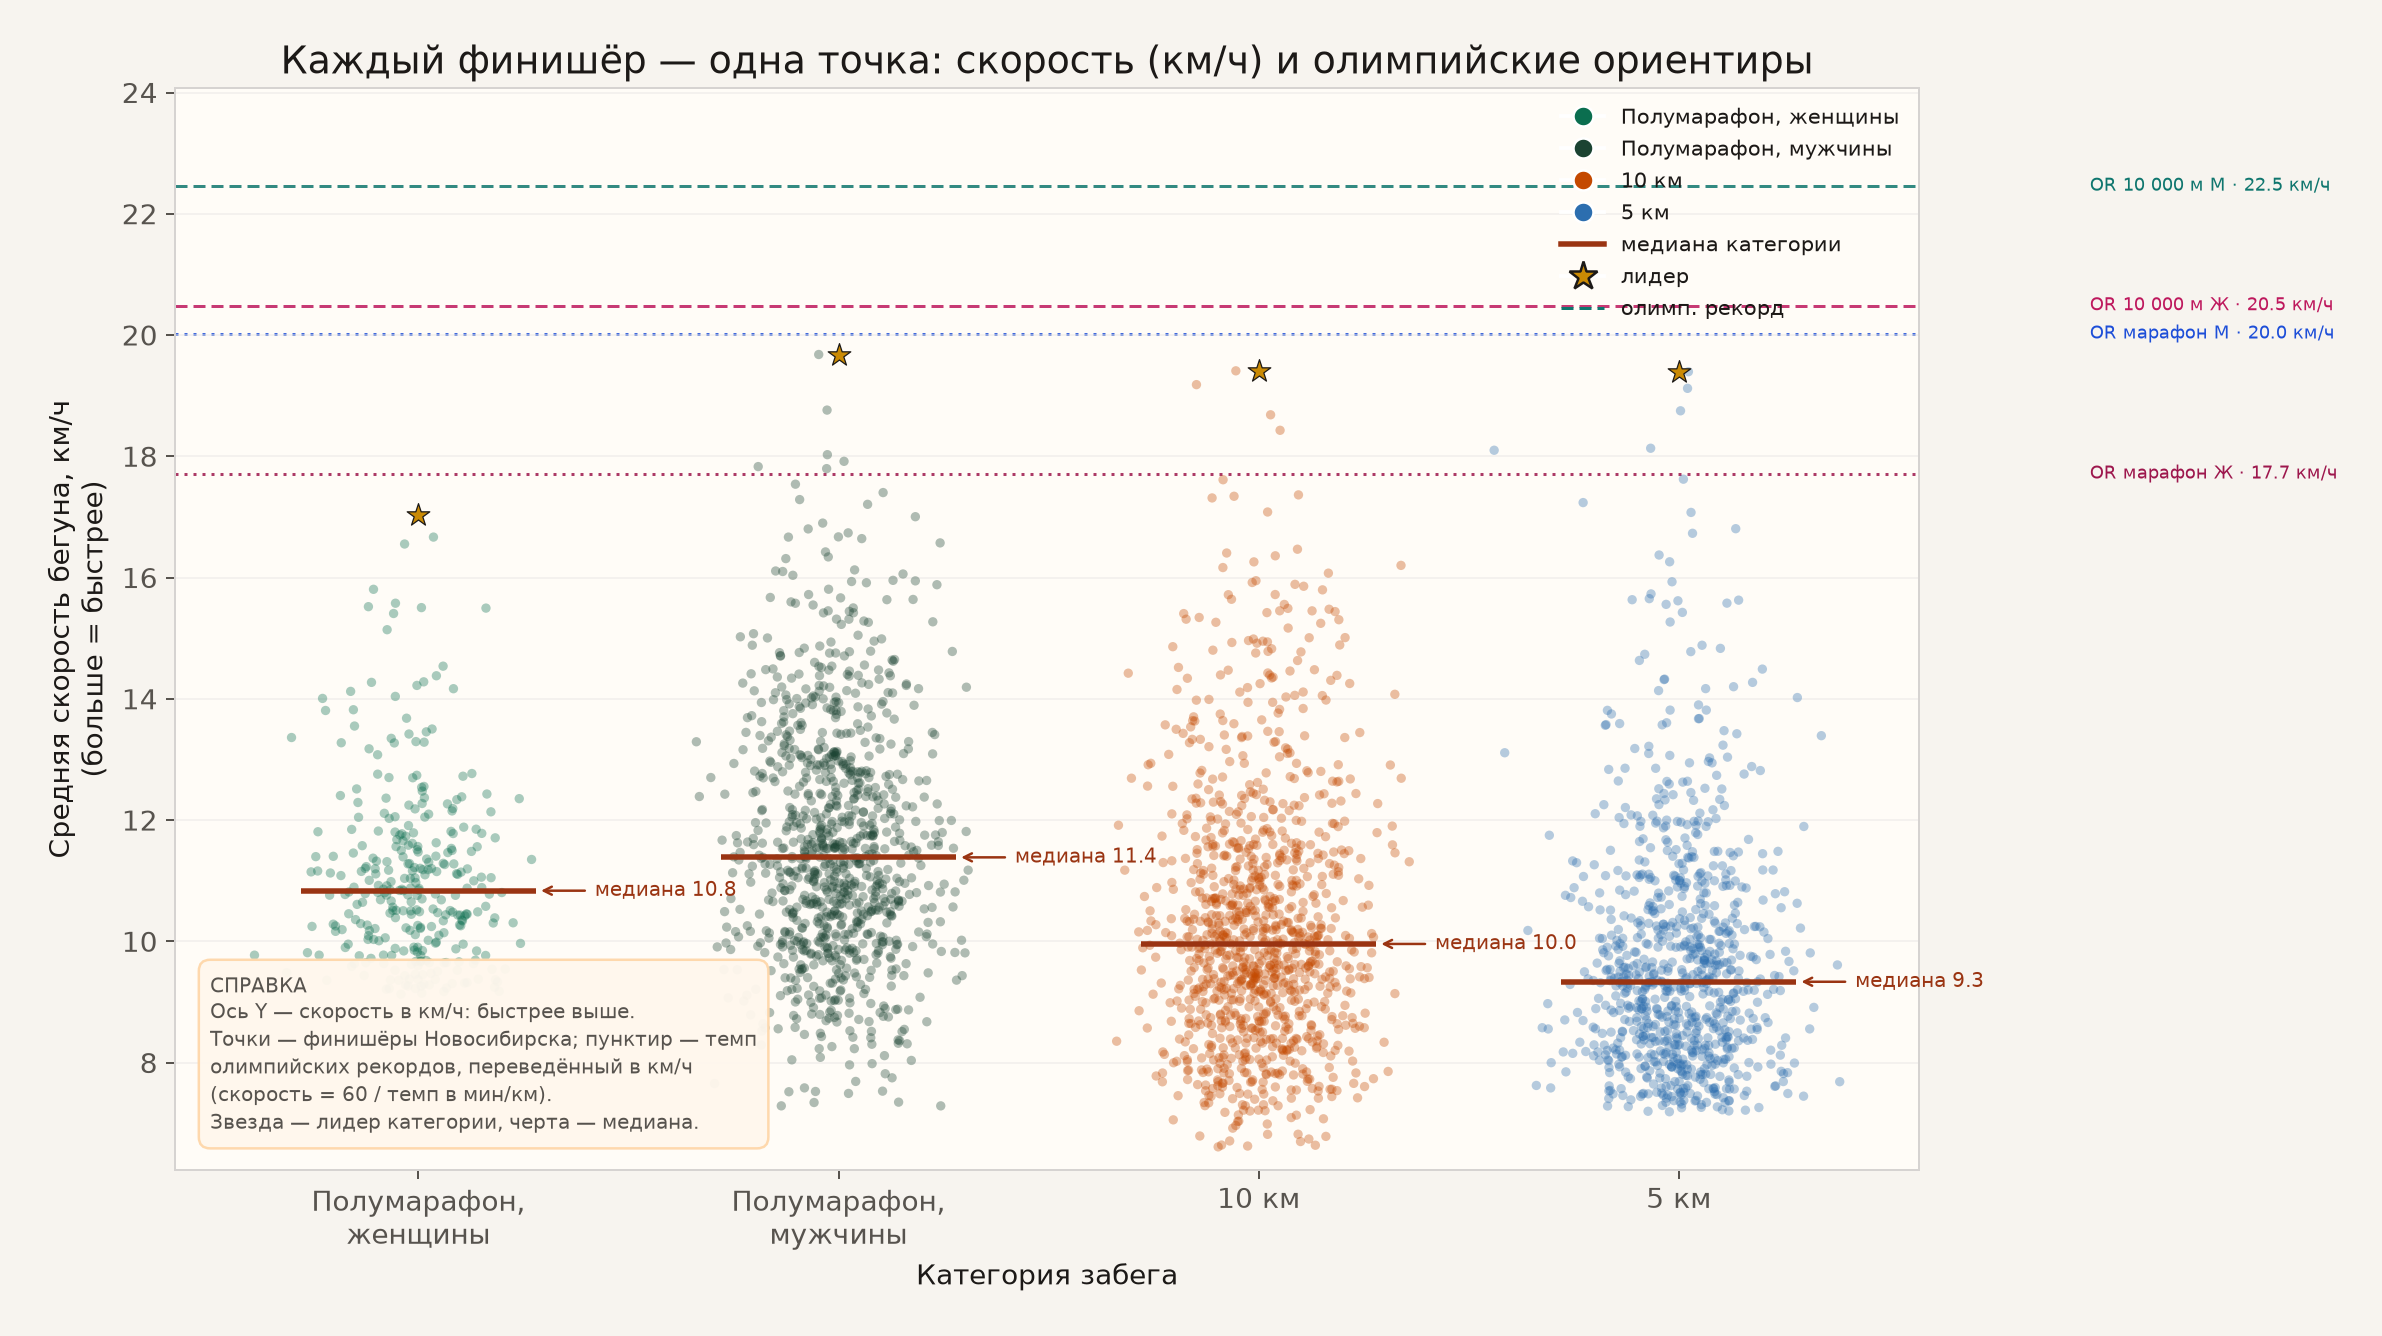
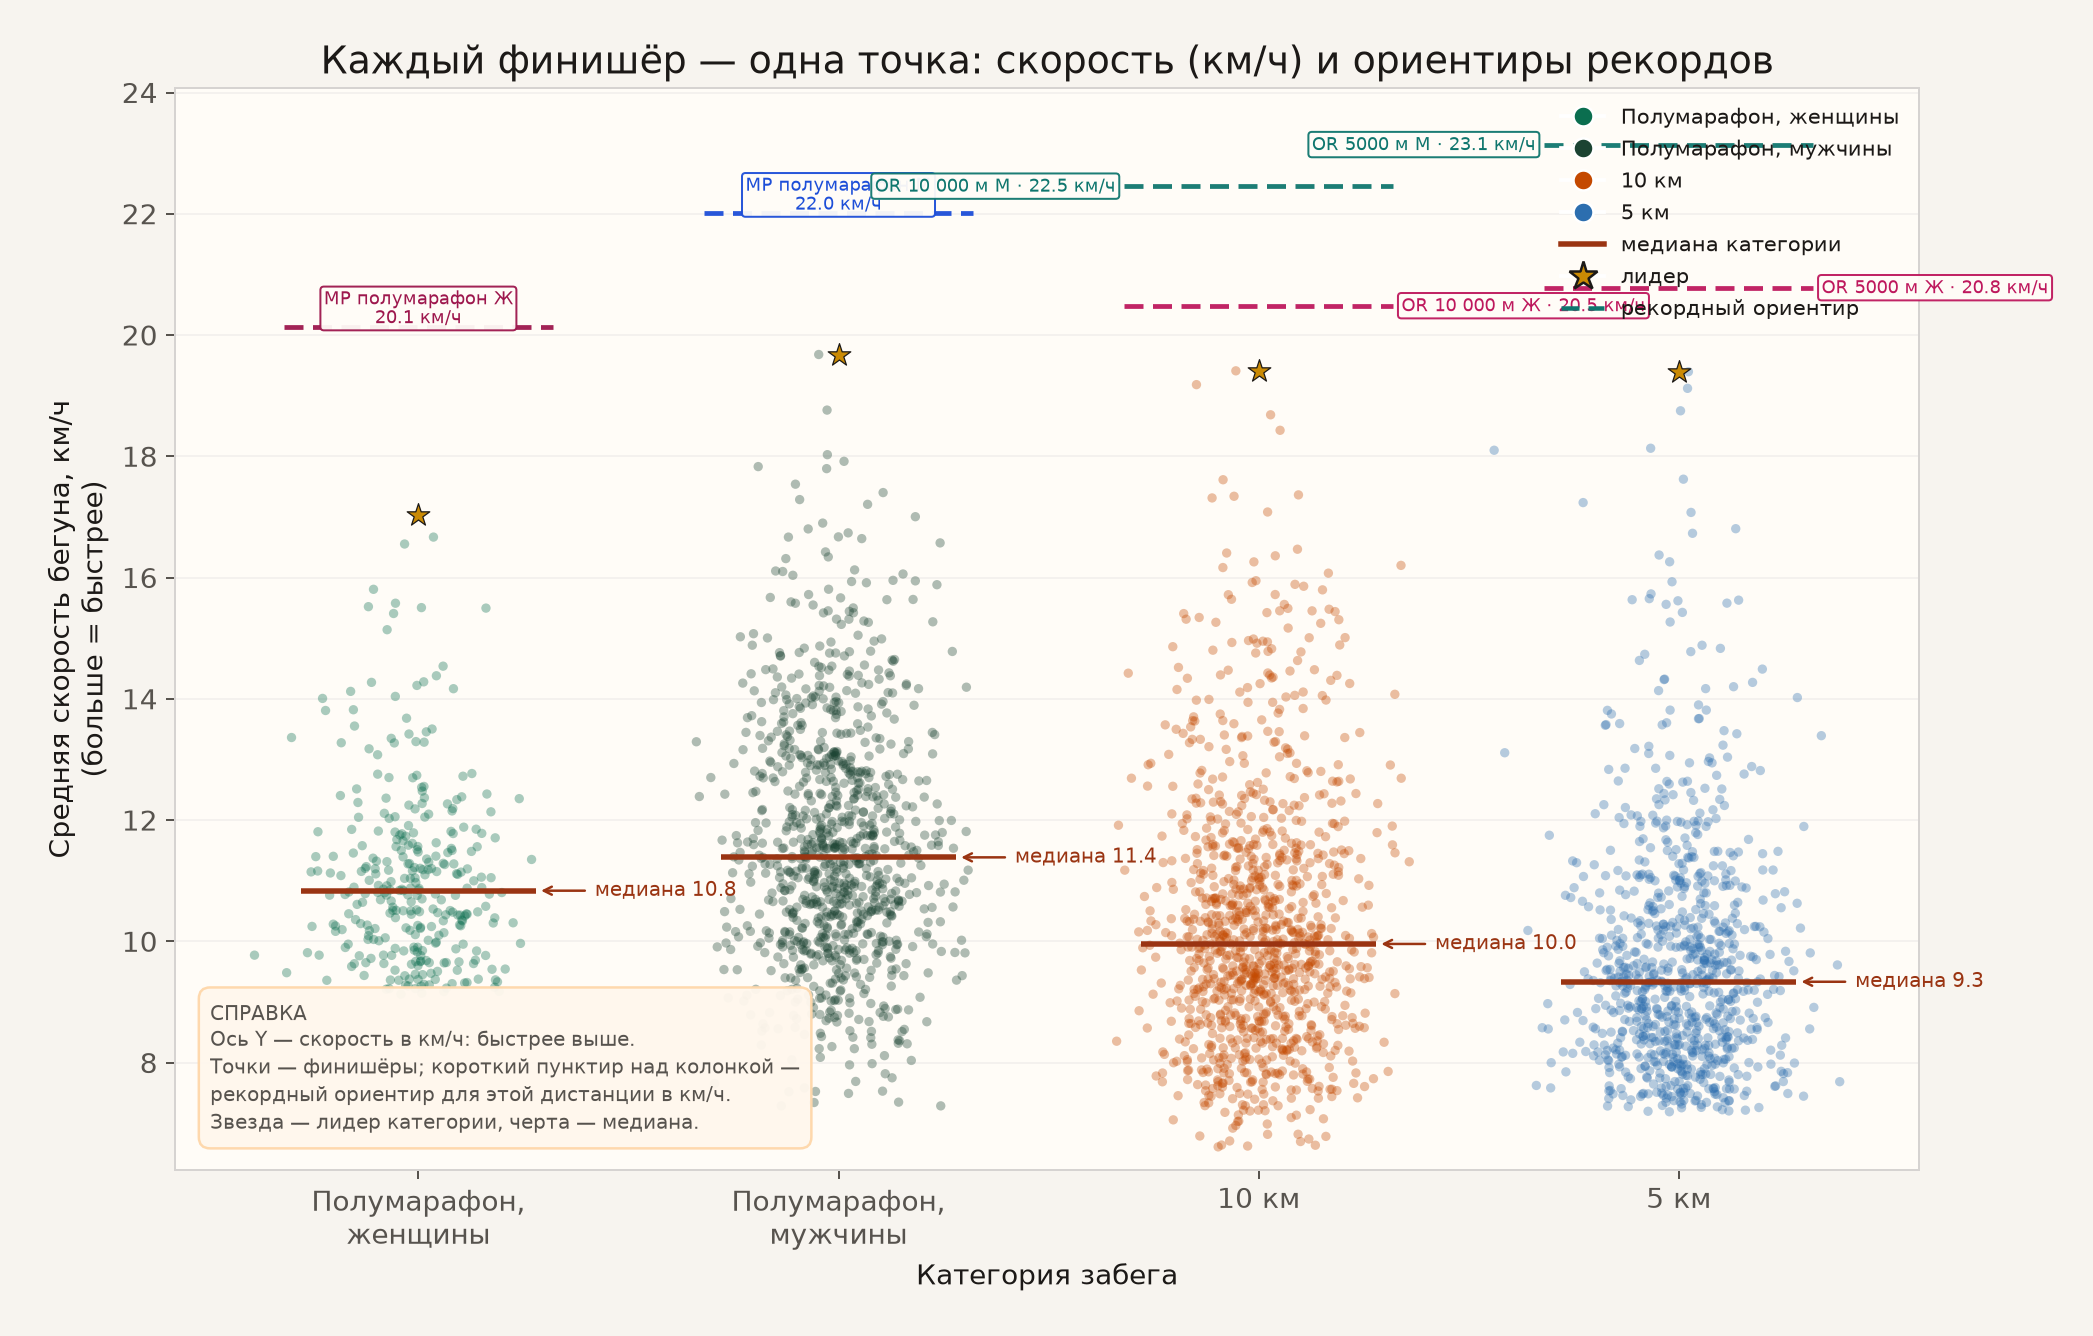
Рекордные линии только над своей категорией
Полумарафон — МР 21.1 км; 5/10 км — OR стадиона. Подписи М/Ж
разведены в стороны, чтобы не наезжали.

diff --git a/src/plot_analysis.py b/src/plot_analysis.py
@@ -45,16 +45,118 @@ MUTED = "#57534E"
 PANEL = "#FFFCF7"
 ACCENT = "#9A3412"
 
-# Олимпийские рекорды → средний темп, мин/км (источник: список OR World Athletics / Олимпиада)
-# Полумарафона на ОИ нет — для длинной дистанции ориентир: темп олимпийского марафона.
-OLYMPIC_PACE_MIN_PER_KM = {
-    "OR 5000 м М (Bekele, 2008)": (12 * 60 + 57.82) / 5 / 60.0,
-    "OR 5000 м Ж (Cheruiyot, 2016)": (14 * 60 + 26.17) / 5 / 60.0,
-    "OR 10 000 м М (Cheptegei, 2024)": (26 * 60 + 43.14) / 10 / 60.0,
-    "OR 10 000 м Ж (Ayana, 2016)": (29 * 60 + 17.45) / 10 / 60.0,
-    "OR марафон М (Tola, 2024)": (2 * 3600 + 6 * 60 + 26) / 42.195 / 60.0,
-    "OR марафон Ж (Hassan, 2024)": (2 * 3600 + 22 * 60 + 55) / 42.195 / 60.0,
+def _pace_min_per_km(seconds: float, distance_km: float) -> float:
+    return seconds / distance_km / 60.0
+
+
+# Ориентиры по категориям: темп в мин/км
+# Полумарафон — мировой рекорд 21.1 км; 5/10 км — олимпийский рекорд на стадионе.
+RECORDS_BY_RACE: dict[str, list[dict]] = {
+    "21.1 км М": [
+        {
+            "label": "МР полумарафон М",
+            "pace": _pace_min_per_km(57 * 60 + 31, 21.0975),  # Kiplimo, 2020
+            "color": "#1D4ED8",
+            "ls": (0, (4, 2)),
+            "label_dx": 0.0,
+            "label_side": "above",
+        }
+    ],
+    "21.1 км Ж": [
+        {
+            "label": "МР полумарафон Ж",
+            "pace": _pace_min_per_km(62 * 60 + 52, 21.0975),  # Gidey, 2021
+            "color": "#9D174D",
+            "ls": (0, (4, 2)),
+            "label_dx": 0.0,
+            "label_side": "above",
+        }
+    ],
+    "10 км": [
+        {
+            "label": "OR 10 000 м М",
+            "pace": _pace_min_per_km(26 * 60 + 43.14, 10.0),  # Cheptegei, 2024
+            "color": "#0F766E",
+            "ls": (0, (4, 2)),
+            "label_dx": -0.42,
+            "label_side": "left",
+        },
+        {
+            "label": "OR 10 000 м Ж",
+            "pace": _pace_min_per_km(29 * 60 + 17.45, 10.0),  # Ayana, 2016
+            "color": "#BE185D",
+            "ls": (0, (4, 2)),
+            "label_dx": 0.42,
+            "label_side": "right",
+        },
+    ],
+    "5 км": [
+        {
+            "label": "OR 5000 м М",
+            "pace": _pace_min_per_km(12 * 60 + 57.82, 5.0),  # Bekele, 2008
+            "color": "#0F766E",
+            "ls": (0, (4, 2)),
+            "label_dx": -0.42,
+            "label_side": "left",
+        },
+        {
+            "label": "OR 5000 м Ж",
+            "pace": _pace_min_per_km(14 * 60 + 26.17, 5.0),  # Cheruiyot, 2016
+            "color": "#BE185D",
+            "ls": (0, (4, 2)),
+            "label_dx": 0.42,
+            "label_side": "right",
+        },
+    ],
 }
+
+
+def draw_record_segment(
+    ax,
+    x_center: float,
+    y_value: float,
+    label: str,
+    color: str,
+    value_text: str,
+    ls=(0, (4, 2)),
+    half_width: float = 0.32,
+    label_dx: float = 0.0,
+    label_side: str = "above",
+) -> None:
+    """Короткий ориентир только над своей колонкой категории."""
+    ax.hlines(
+        y_value,
+        x_center - half_width,
+        x_center + half_width,
+        colors=color,
+        lw=1.9,
+        ls=ls,
+        zorder=3,
+        alpha=0.95,
+    )
+    # подпись сбоку от сегмента — чтобы М/Ж на одной колонке не наезжали
+    if label_side == "left":
+        tx, ha, va = x_center - half_width - 0.02, "right", "center"
+        text = f"{label} · {value_text}"
+    elif label_side == "right":
+        tx, ha, va = x_center + half_width + 0.02, "left", "center"
+        text = f"{label} · {value_text}"
+    else:
+        tx, ha, va = x_center + label_dx, "center", "bottom"
+        text = f"{label}\n{value_text}"
+    ax.text(
+        tx,
+        y_value,
+        text,
+        va=va,
+        ha=ha,
+        fontsize=7,
+        color=color,
+        linespacing=1.05,
+        bbox=dict(boxstyle="round,pad=0.2", facecolor="#FFFCF7", edgecolor=color, linewidth=0.8, alpha=0.95),
+        zorder=5,
+        clip_on=False,
+    )
 
 
 def setup_style() -> None:
@@ -152,26 +254,21 @@ def plot_pace_scatter(df: pd.DataFrame) -> None:
     rng = np.random.default_rng(42)
     fig, ax = plt.subplots(figsize=(12.5, 7.8))
 
-    # Олимпийские ориентиры — сплошные тонкие линии через весь график
-    or_styles = [
-        ("OR 10 000 м М (Cheptegei, 2024)", "#0F766E", (0, (4, 2))),
-        ("OR 10 000 м Ж (Ayana, 2016)", "#BE185D", (0, (4, 2))),
-        ("OR марафон М (Tola, 2024)", "#1D4ED8", (0, (1, 2))),
-        ("OR марафон Ж (Hassan, 2024)", "#9D174D", (0, (1, 2))),
-    ]
-    for label, color, ls in or_styles:
-        pace_or = OLYMPIC_PACE_MIN_PER_KM[label]
-        ax.axhline(pace_or, color=color, lw=1.2, ls=ls, zorder=1, alpha=0.85)
-        ax.text(
-            len(COMPARE) - 0.05,
-            pace_or,
-            f"  {label.split('(')[0].strip()} · {pace_or:.2f}",
-            va="center",
-            ha="left",
-            fontsize=7,
-            color=color,
-            clip_on=False,
-        )
+    record_paces: list[float] = []
+    for i, race in enumerate(COMPARE):
+        for rec in RECORDS_BY_RACE[race]:
+            draw_record_segment(
+                ax,
+                i,
+                rec["pace"],
+                rec["label"],
+                rec["color"],
+                f"{rec['pace']:.2f}",
+                rec["ls"],
+                label_dx=rec.get("label_dx", 0.0),
+                label_side=rec.get("label_side", "above"),
+            )
+            record_paces.append(rec["pace"])
 
     for i, race in enumerate(COMPARE):
         g = df[df["race"] == race].copy()
@@ -231,10 +328,10 @@ def plot_pace_scatter(df: pd.DataFrame) -> None:
     ax.set_xticklabels([RACE_LABEL[r] for r in COMPARE])
     ax.set_ylabel("Темп бегуна, минут на километр\n(меньше = быстрее; единая шкала для всех дистанций)")
     ax.set_xlabel("Категория забега")
-    ax.set_title("Каждый финишёр — одна точка: темп (мин/км) и олимпийские ориентиры")
+    ax.set_title("Каждый финишёр — одна точка: темп (мин/км) и ориентиры рекордов")
     ax.grid(True, axis="y", alpha=0.45)
     all_pace = df[df["race"].isin(COMPARE)]["pace_s_per_km"] / 60.0
-    fast_end = min(float(v) for v in OLYMPIC_PACE_MIN_PER_KM.values()) * 0.96
+    fast_end = min(record_paces) * 0.94
     slow_end = float(all_pace.quantile(0.995)) * 1.05
     ax.set_ylim(fast_end, slow_end)
     ax.invert_yaxis()
@@ -263,7 +360,7 @@ def plot_pace_scatter(df: pd.DataFrame) -> None:
             markersize=12,
             label="лидер категории",
         ),
-        plt.Line2D([0], [0], color="#0F766E", lw=1.2, ls=(0, (4, 2)), label="олимп. рекорд (темп)"),
+        plt.Line2D([0], [0], color="#0F766E", lw=1.8, ls=(0, (4, 2)), label="рекордный ориентир"),
     ]
     ax.legend(handles=handles, frameon=False, loc="lower left", fontsize=8.5)
 
@@ -274,8 +371,8 @@ def plot_pace_scatter(df: pd.DataFrame) -> None:
         "Каждая точка — один финишёр; четыре облака — четыре\n"
         "категории на одной шкале.\n"
         "Звезда — лидер категории, черта — медиана.\n"
-        "Пунктир — темп олимпийских рекордов 10 000 м\n"
-        "и марафона (ориентир для длинной дистанции).",
+        "Короткий пунктир над колонкой — рекордный темп\n"
+        "для этой дистанции (МР 21.1 км или OR 5/10 км).",
         "lower right",
     )
     save(fig, "00_pace_scatter")
@@ -286,25 +383,22 @@ def plot_speed_scatter(df: pd.DataFrame) -> None:
     rng = np.random.default_rng(7)
     fig, ax = plt.subplots(figsize=(12.5, 7.8))
 
-    or_speed = {k: 60.0 / v for k, v in OLYMPIC_PACE_MIN_PER_KM.items()}
-    for label, color, ls in [
-        ("OR 10 000 м М (Cheptegei, 2024)", "#0F766E", (0, (4, 2))),
-        ("OR 10 000 м Ж (Ayana, 2016)", "#BE185D", (0, (4, 2))),
-        ("OR марафон М (Tola, 2024)", "#1D4ED8", (0, (1, 2))),
-        ("OR марафон Ж (Hassan, 2024)", "#9D174D", (0, (1, 2))),
-    ]:
-        spd = or_speed[label]
-        ax.axhline(spd, color=color, lw=1.2, ls=ls, zorder=1, alpha=0.85)
-        ax.text(
-            len(COMPARE) - 0.05,
-            spd,
-            f"  {label.split('(')[0].strip()} · {spd:.1f} км/ч",
-            va="center",
-            ha="left",
-            fontsize=7,
-            color=color,
-            clip_on=False,
-        )
+    record_speeds: list[float] = []
+    for i, race in enumerate(COMPARE):
+        for rec in RECORDS_BY_RACE[race]:
+            spd = 60.0 / rec["pace"]
+            draw_record_segment(
+                ax,
+                i,
+                spd,
+                rec["label"],
+                rec["color"],
+                f"{spd:.1f} км/ч",
+                rec["ls"],
+                label_dx=rec.get("label_dx", 0.0),
+                label_side=rec.get("label_side", "above"),
+            )
+            record_speeds.append(spd)
 
     for i, race in enumerate(COMPARE):
         g = df[df["race"] == race]
@@ -331,10 +425,10 @@ def plot_speed_scatter(df: pd.DataFrame) -> None:
     ax.set_xticklabels([RACE_LABEL[r] for r in COMPARE])
     ax.set_ylabel("Средняя скорость бегуна, км/ч\n(больше = быстрее)")
     ax.set_xlabel("Категория забега")
-    ax.set_title("Каждый финишёр — одна точка: скорость (км/ч) и олимпийские ориентиры")
+    ax.set_title("Каждый финишёр — одна точка: скорость (км/ч) и ориентиры рекордов")
     ax.grid(True, axis="y", alpha=0.45)
     all_spd = 3600.0 / df[df["race"].isin(COMPARE)]["pace_s_per_km"]
-    ax.set_ylim(float(all_spd.quantile(0.005)) * 0.92, max(float(all_spd.max()), max(or_speed.values())) * 1.04)
+    ax.set_ylim(float(all_spd.quantile(0.005)) * 0.92, max(float(all_spd.max()), max(record_speeds)) * 1.04)
 
     handles = [
         plt.Line2D([0], [0], marker="o", color="w", markerfacecolor=COLORS[r], markersize=8, label=RACE_LABEL[r].replace("\n", " "))
@@ -343,16 +437,15 @@ def plot_speed_scatter(df: pd.DataFrame) -> None:
     handles += [
         plt.Line2D([0], [0], color=ACCENT, lw=2.2, label="медиана категории"),
         plt.Line2D([0], [0], marker="*", color="w", markerfacecolor="#CA8A04", markeredgecolor="#1C1917", markersize=12, label="лидер"),
-        plt.Line2D([0], [0], color="#0F766E", lw=1.2, ls=(0, (4, 2)), label="олимп. рекорд"),
+        plt.Line2D([0], [0], color="#0F766E", lw=1.8, ls=(0, (4, 2)), label="рекордный ориентир"),
     ]
     ax.legend(handles=handles, frameon=False, loc="upper right", fontsize=8.5)
     add_note(
         ax,
         "СПРАВКА\n"
         "Ось Y — скорость в км/ч: быстрее выше.\n"
-        "Точки — финишёры Новосибирска; пунктир — темп\n"
-        "олимпийских рекордов, переведённый в км/ч\n"
-        "(скорость = 60 / темп в мин/км).\n"
+        "Точки — финишёры; короткий пунктир над колонкой —\n"
+        "рекордный ориентир для этой дистанции в км/ч.\n"
         "Звезда — лидер категории, черта — медиана.",
         "lower left",
     )
